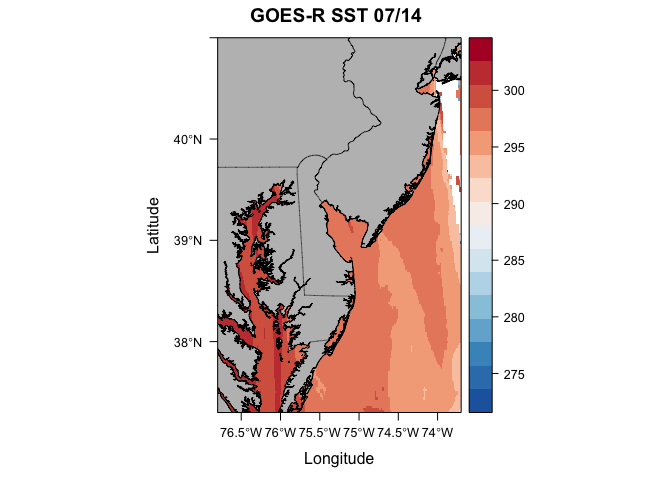
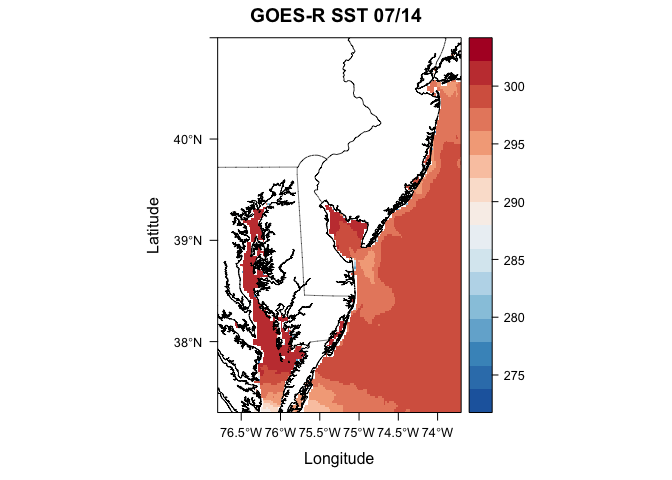
adding the rest

diff --git a/Advanced_R/Week6_DataExtraction.md b/Advanced_R/Week6_DataExtraction.md
@@ -91,7 +91,7 @@ goes.nc
     ##             standard_name: longitude
     ##             units: degrees_east
     ##             _ChunkSizes: 2778
-    ##         time  Size:10914
+    ##         time  Size:11650
     ##             standard_name: time
     ##             long_name: EPOCH Time
     ##             units: seconds since 1970-01-01T00:00:00Z
@@ -111,7 +111,7 @@ goes.nc
     ##         inputCalibrationFile: 0
     ##         product_list: SST, DQF
     ##         summary: GOES16 SST product, reprojected to EPSG:4326.
-    ##         history: Thu Mar  5 11:19:29 2020: ncks /data/GOES/GOES-R/sst/2020/OR_ABI-L2-SSTF-M3_G16_s20200651500177_e20200651559485_c20200651606007.nc /data/GOES/GOES-R/sst/2020/OR_ABI-L2-SSTF-M3_G16_s20200651500177_e20200651559485_c20200651606007.nc -L 5 -O
+    ##         history: Mon Apr  6 10:32:52 2020: ncks /data/GOES/GOES-R/sst/2020/OR_ABI-L2-SSTF-M3_G16_s20200971300206_e20200971359514_c20200971405319.nc /data/GOES/GOES-R/sst/2020/OR_ABI-L2-SSTF-M3_G16_s20200971300206_e20200971359514_c20200971405319.nc -L 5 -O
     ##         NCO: netCDF Operators version 4.7.5 (Homepage = http://nco.sf.net, Code = http://github.com/nco/nco)
 
 Just with that one line of code, we've opened a connection with the GOES-R dataset on the THREDDS server. Printing the netcdf dataset provides some metadata info. Let's use this metadata and extract the time period / spatial extent that we want.
@@ -137,7 +137,7 @@ lastVal = length(goes.nc$dim$time$vals)
 lastVal
 ```
 
-    ## [1] 10914
+    ## [1] 11650
 
 ``` r
 epoch_val = goes.nc$dim$time$vals[lastVal]
@@ -150,7 +150,7 @@ human_time = as.POSIXct(epoch_val, origin="1970-01-01")
 human_time
 ```
 
-    ## [1] "2020-03-05 11:30:03 EST"
+    ## [1] "2020-04-06 10:30:06 EDT"
 
 `as.POSIXct` is a datetime package in R. It is a gold standard and you'll see it as you gain more experience in playing with datetime conversions. You can also use `anytime` package.
 
@@ -159,7 +159,7 @@ library(anytime)
 anytime(epoch_val)
 ```
 
-    ## [1] "2020-03-05 11:30:03 EST"
+    ## [1] "2020-04-06 10:30:06 EDT"
 
 At this point, all we have to do is convert our human dates to EPOCH so we can extract the data. In order to do this all we need to do is convert a datetime object to a numeric. R handles it for us...
 
@@ -306,7 +306,7 @@ We already have our `count` values in place..let's plug them in and run - note t
 
 ``` r
 # cool, let's grab SST (Sea Surface Temperature) for Delaware Bay from January 10th-12th
-sst.c <- ncvar_get(goes.nc, "SST",start = c(index_east_lon,index_south_lat,index_start_time), 
+sst.c <- ncvar_get(goes.nc, "SST",start = c(index_west_lon,index_south_lat,index_start_time), 
                    count = c(lon_count,lat_count,time_count))
 dim(sst.c)
 ```
@@ -347,34 +347,28 @@ test.sst
     ## crs        : NA 
     ## source     : memory
     ## names      : layer 
-    ## values     : 273.5828, 302.611  (min, max)
+    ## values     : 273.744, 302.1935  (min, max)
 
 What's missing? Well we just gave it the raw data, we still need to plug in the extents! Also, we will need to plug in the CRS - luckily we know this data is in lat/lon because of how awesome this metadata is!
 
 ``` r
+# we need to transpose and flip this dataset just like we did in week 4 of the R intro course
+# for some reason when we put the netcdf data into R raster the data is upside down and inside out so this is our way of fixing it 
+test.sst = t(test.sst)
+test.sst = flip(test.sst, 2)
+# define the projection
 sst.crs = ncatt_get(goes.nc, "projection")
 extent(test.sst) = c(west_lon, east_lon, south_lat, north_lat)
 crs(test.sst) = sst.crs$proj4_string
-test.sst
-```
 
-    ## class      : RasterLayer 
-    ## dimensions : 173, 204, 35292  (nrow, ncol, ncell)
-    ## resolution : 0.01519608, 0.02138728  (x, y)
-    ## extent     : -76.8, -73.7, 37.3, 41  (xmin, xmax, ymin, ymax)
-    ## crs        : +proj=longlat +datum=WGS84 +ellps=WGS84 +towgs84=0,0,0 
-    ## source     : memory
-    ## names      : layer 
-    ## values     : 273.5828, 302.611  (min, max)
 
-``` r
 # let's use levelplot to get this done
 usa <- getData('GADM', country = 'USA', level = 1)
 
 # Throw together the usa spatial polygons data frame
 plt <- levelplot(test.sst, margin=F, par.settings=BuRdTheme,
        main="GOES-R SST 07/14")
-plt + layer(sp.polygons(usa, col='black',fill='grey', lwd=0.4))
+plt + layer(sp.polygons(usa, col='black', lwd=0.4))
 ```
 
 ![](Week6_DataExtraction_files/figure-markdown_github/unnamed-chunk-20-1.png)
@@ -543,14 +537,14 @@ info('cwwcNDBCMet')
     ##          Range: 0, 359 
     ##          Units: degrees_true 
     ##      ptdy: 
-    ##          Range: -15.0, 14.9 
+    ##          Range: -14.0, 14.7 
     ##          Units: hPa 
     ##      station: 
     ##      tide: 
     ##          Range: -9.37, 6.13 
     ##          Units: m 
     ##      time: 
-    ##          Range: 4910400.0, 1.5834312E9 
+    ##          Range: 4910400.0, 1.58618658E9 
     ##          Units: seconds since 1970-01-01T00:00:00Z 
     ##      vis: 
     ##          Range: 0.0, 66.7 
@@ -619,7 +613,7 @@ info('jplMURSST41')
     ## <ERDDAP info> jplMURSST41 
     ##  Base URL: https://upwell.pfeg.noaa.gov/erddap/ 
     ##  Dimensions (range):  
-    ##      time: (2002-06-01T09:00:00Z, 2020-03-04T09:00:00Z) 
+    ##      time: (2002-06-01T09:00:00Z, 2020-04-05T09:00:00Z) 
     ##      latitude: (-89.99, 89.99) 
     ##      longitude: (-179.99, 180.0) 
     ##  Variables:  
